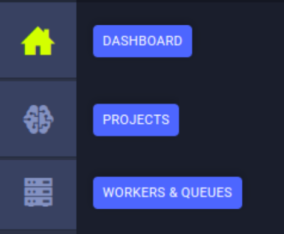
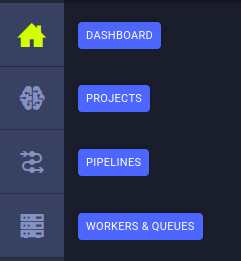
pipeline update

diff --git a/sidebars.js b/sidebars.js
@@ -37,6 +37,11 @@ module.exports = {
                     'webapp/webapp_archiving'
                 ]
             },
+            {
+                'Pipelines':[
+                    'webapp/pipelines/webapp_pipeline_page', 'webapp/pipelines/webapp_pipeline_table', 'webapp/pipelines/webapp_pipeline_viewing'
+                ]
+            },
             'webapp/webapp_workers_queues', 'webapp/webapp_profile']
         },
         {'Configurations': ['configs/configuring_clearml', 'configs/clearml_conf', 'configs/env_vars']},

diff --git a/docs/webapp/pipelines/webapp_pipeline_table.md b/docs/webapp/pipelines/webapp_pipeline_table.md
@@ -1,0 +1,123 @@
+---
+title: The Pipeline Runs Table
+---
+
+The pipeline runs table is a [customizable](#customizing-the-runs-table) list of the pipeline’s runs. From the table, 
+you can view a run’s details, and manage runs (create, continue, or abort). The runs table's auto-refresh allows users 
+to continually monitor run progress.
+
+![Pipeline runs table](../../img/webapp_pipeline_runs_table.png)
+
+## Run Table Columns
+
+The models table contains the following columns:
+
+| Column | Description | Type |
+|---|---|---|
+| **RUN** | Pipeline run identifier  |  String |
+| **VERSION** | The pipeline version number. Corresponds to the [PipelineController](../../fundamentals/pipelines.md#pipelines-from-tasks) ’s and PipelineDecorator’s `version` parameter | Version string |
+| **TAGS** | Descriptive, user-defined, color-coded tags assigned to run. | Tag |
+| **STATUS** | Pipeline run's status. See a list of the [task states and state transitions](../../fundamentals/task.md#task-states). |  String |
+| **USER** | User who created the run.  |  String |
+| **STARTED** | Elapsed time since the run started. To view the date and time of start, hover over the elapsed time.  |  Date-time |
+| **UPDATED** | Elapsed time since the last update to the run. To view the date and time of update, hover over the elapsed time. |  Date-time |
+| **RUN TIME** | The current / total running time of the run. | Time |
+| **_Metrics_** | Add metrics column (last, minimum, and / or maximum values). Available options depend upon the runs in the table. | Varies according to runs in table |
+| **_Hyperparameters_** | Add hyperparameters. Available options depend upon the runs in the table. | Varies according to runs in table |
+
+## Customizing the Runs Table
+
+Customize the table using any of the following:
+* Dynamic column ordering - Drag a column title to a different position.
+* Show / hide columns - Click <img src="/docs/latest/icons/ico-settings.svg" alt="Setting Gear" className="icon size-md" /> 
+  to view and select columns to show. Click **Metric** and **Hyper Parameter** to add the respective custom columns
+* [Filter columns](#filtering-columns)
+* Sort columns
+* Resize columns - Drag the column separator to change the width of that column. Double click the column separator for 
+  automatic fit.
+
+Changes are persistent (cached in the browser) and represented in the URL, so customized settings can be saved in a 
+browser bookmark and shared with other ClearML users.
+
+:::note Float Values Display
+By default, the runs table displays rounded up float values. Hover over a float to view its precise value in the 
+tooltip that appears. To view all precise values in a column, hover over a float and click <img src="/docs/latest/icons/ico-line-expand.svg" alt="Expand" className="icon size-md" />.  
+:::
+
+### Filtering Columns
+
+Filters can be applied by clicking <img src="/docs/latest/icons/ico-filter-off.svg" alt="Filter" className="icon size-md" /> 
+on a column, and the relevant filter appears.
+
+There are a few types of filters:
+* Value set - Choose which values to include from a list of all values in the column
+* Numerical ranges - Insert minimum and / or maximum value
+* Date ranges - Insert starting and / or ending date and time
+* Tags - Choose which tags to filter by from a list of all tags used in the column. 
+  * Filter by multiple tag values using the **ANY** or **ALL** options, which correspond to the logical "AND" and "OR" respectively. These 
+    options appear on the top of the tag list.
+  * Filter by the absence of a tag (logical "NOT") by clicking its checkbox twice. An `X` will appear in the tag's checkbox.
+  
+Once a filter is applied to a column, its filter icon will appear with a highlighted dot on its top right (<img src="/docs/latest/icons/ico-filter-on.svg" alt="Filter on" className="icon size-md" /> ).  
+
+To clear all active filters, click <img src="/docs/latest/icons/ico-filter-reset.svg" alt="Clear filters" className="icon size-md" /> 
+in the top right corner of the table.
+
+:::note
+The following table customizations are saved on a per pipeline basis:
+* Columns order
+* Column width
+* Active sort order
+* Active filters
+* Custom columns
+:::
+
+## Create Run
+To launch a new run for a pipeline, click **+ NEW RUN** on the top left of the page. This opens a **NEW RUN** modal, where 
+you can set the run’s parameters. By default, the fields are pre-filled with the last run’s values. 
+
+Click **Advanced configurations** to change the run’s execution queue.  
+
+![New run modal](../../img/webapp_pipeline_new_run.png)
+
+After clicking **RUN**, the new pipeline run is enqueued in the specified queue, and the run is added to the pipeline run table. 
+
+
+## Run Actions
+
+The following table describes the actions that can be done from the run table, including the [states](../../fundamentals/task.md#task-states)
+that allow each operation.  
+
+| Action | Description | States Valid for the Action | State Transition |
+|---|---|---|---|
+| Archive | To more easily work with active runs, archive a run. See [Archiving](../webapp_archiving.md). | Any state |  None  |
+| Restore | Action available in the archive. Restore a run to the active pipeline runs table. | Any state | None |
+| Run | Create a new pipeline run. Configure and enqueue it for execution. See [Create Run](#create-run).  | Any State | *Pending* |
+| Abort | Manually stop / cancel a run. | *Running* / *Pending* | *Aborted* |
+| Continue | Rerun with the same parameters |  *Aborted* | *Pending* |
+| Tags | User-defined labels added to runs for grouping and organization. | Any state |  None  |
+
+These actions can be accessed with the context menu, when right-clicking a run.
+
+![pipeline run context menu](../../img/webapp_pipelines_context_menu)
+
+Most of the actions mentioned in the chart above can be performed on multiple runs at once.
+[Select multiple runs](#selecting-multiple-runs), then use either the context menu, or the bar that appears at the bottom 
+of the page, to perform operations on the selected runs. Actions can be performed only on the runs that match the action criteria 
+(for example, only *Aborted* pipeline runs can be continued). The context menu shows the number of runs that can be 
+affected by each action. The same information can be found in the bottom menu, in a tooltip that appears when hovering 
+over an action icon. 
+
+## Selecting Multiple Runs
+
+Select multiple runs by clicking the checkbox on the left of each relevant run. Clear any existing selection 
+by clicking the checkbox in the top left corner of the table.
+
+Click the checkbox in the top left corner of the table to select all items currently visible.
+
+An extended bulk selection tool is available through the down arrow next to the checkbox in the top left corner, enabling 
+selecting items beyond the items currently on-screen:
+* **All** - Select all runs in the pipeline
+* **None** - Clear selection
+* **Filtered** - Select all runs in the project that match the current active table filters 
+

diff --git a/docs/webapp/pipelines/webapp_pipeline_viewing.md b/docs/webapp/pipelines/webapp_pipeline_viewing.md
@@ -1,0 +1,60 @@
+---
+title: Pipeline Run Details
+---
+
+The run details panel shows the pipeline’s structure and the execution status of every step, as well as the run’s 
+configuration parameters and output. 
+
+![Pipeline structure](../../img/webapp_pipeline_DAG.png)
+
+Each step shows: 
+
+![Pipeline step info](../../img/webapp_pipeline_node.png)
+
+* Step name
+* Step status
+* Step execution time
+* Step log button - Hover over the step and click <img src="/docs/latest/icons/ico-console.svg" alt="console" className="icon size-sm space-sm" /> 
+  to view the step’s [console log and code](#run-and-step-log) 
+
+While the pipeline is running, the steps’ details and colors are updated.
+
+## Run and Step Details
+### Run and Step Info
+
+On the right side of the pipeline run panel, view the **RUN INFO** which shows: 
+* Run Parameters 
+* Reported Metrics
+* Produced Artifacts 
+* Output Models 
+
+![Run info](../../img/webapp_pipeline_run_info.png)
+
+To view a run’s complete information, click **Full details**, which will open the pipeline’s controller [task page](../webapp_exp_track_visual.md). 
+View each list’s complete details in the pipeline task’s corresponding tabs: 
+* **PARAMETERS** list > **CONFIGURATION** tab
+* **METRICS** list > **SCALARS** tab
+* **ARTIFACTS** and **MODELS** lists > **ARTIFACTS** tab 
+
+![Pipeline task info](../../img/webapp_pipeline_task_info.png)
+
+To view a specific step’s information, click the step on the execution graph, and the info panel displays its **STEP INFO**. 
+The panel displays the step’s name, task type, and status, as well as its parameters, metrics, artifacts, and models. 
+
+![Step info](../../img/webapp_pipeline_step_info.png)
+
+To return to viewing the run’s information, click the pipeline graph, outside any of the steps.  
+
+## Run and Step Log
+
+Click on **DETAILS** on the top left of the info panel to view a run’s full console log. The log contains everything printed 
+to stdout and stderr.  
+
+![Step console](../../img/webapp_pipeline_step_console.png)
+
+To view a step’s console log, click **DETAILS** and then click on a step. 
+
+You can also view the selected step’s code. On the top right of the console panel, click **Console**, then click **Code** 
+in the menu. 
+
+![Step code](../../img/webapp_pipeline_step_code.png)

diff --git a/docs/webapp/pipelines/webapp_pipeline_page.md b/docs/webapp/pipelines/webapp_pipeline_page.md
@@ -1,0 +1,34 @@
+---
+title: Pipelines Page
+---
+
+Use the **Pipelines** Page to navigate between and manage pipelines. The page shows execution summaries for all 
+[ClearML Pipelines](../../fundamentals/pipelines.md).
+
+Click on a pipeline card to navigate to its [Pipeline Runs Table](webapp_pipeline_table.md), where you can view the 
+pipeline structure, configuration and outputs for all of the pipeline’s runs, as well as create new runs.
+
+![Projects page](../../img/webapp_pipeline_table.png)
+
+
+## Pipeline Info Cards
+
+The pipeline cards display summarized pipeline information:  
+
+![Project card](../../img/webapp_pipeline_card.png)
+
+* Pipeline name
+* Time since the pipeline’s most recent run
+* Run summary - Number of *Running*/*Pending*/*Completed*/*Failed* runs
+* Tags 
+
+
+### Pipeline Actions
+
+Click <img src="/docs/latest/icons/ico-bars-menu.svg" alt="Menu" className="icon size-md space-sm" /> on the top right
+of a pipeline card to open its context menu and access pipeline actions.  
+
+![Project context menu](../../img/webapp_pipeline_context_menu.png)
+
+* Rename - Change the pipeline’s name
+* Add Tag - Add label to the pipeline to help easily classify groups of pipelines.

diff --git a/docs/webapp/webapp_overview.md b/docs/webapp/webapp_overview.md
@@ -23,7 +23,8 @@ The ClearML Web UI is composed of the following pages:
     * [Compare experiments](webapp_exp_comparing.md)
     * [Share experiments and their models](webapp_exp_sharing.md) with other ClearML hosted service users 
     * [Archive experiments and models](webapp_archiving.md)
-
+ 
+* [Pipelines](pipelines/webapp_pipeline_page.md) - View and manage your pipelines.
 * [Workers and Queues](webapp_workers_queues.md) - The resource monitoring and queues management page.
   
 * [Settings](webapp_profile.md) (available through the profile menu <img src="/docs/latest/icons/ico-me.svg" alt="Profile button" className="icon size-lg space-sm" />) - 

diff --git a/docs/hyperdatasets/webapp/webapp_datasets_versioning.md b/docs/hyperdatasets/webapp/webapp_datasets_versioning.md
@@ -5,8 +5,6 @@ title: Dataset Versions
 Use the Dataset versioning WebApp (UI) features for viewing, creating, modifying, and 
 deleting [Dataset versions](../dataset.md#dataset-versioning).
 
-From the [Datasets page](webapp_datasets.md), click on one of the Datasets in order to see and work with its versions. 
-
 ## Dataset Version History
 The WebApp (UI) will present your dataset version structure in one of two ways, depending on the structure implemented.
 
